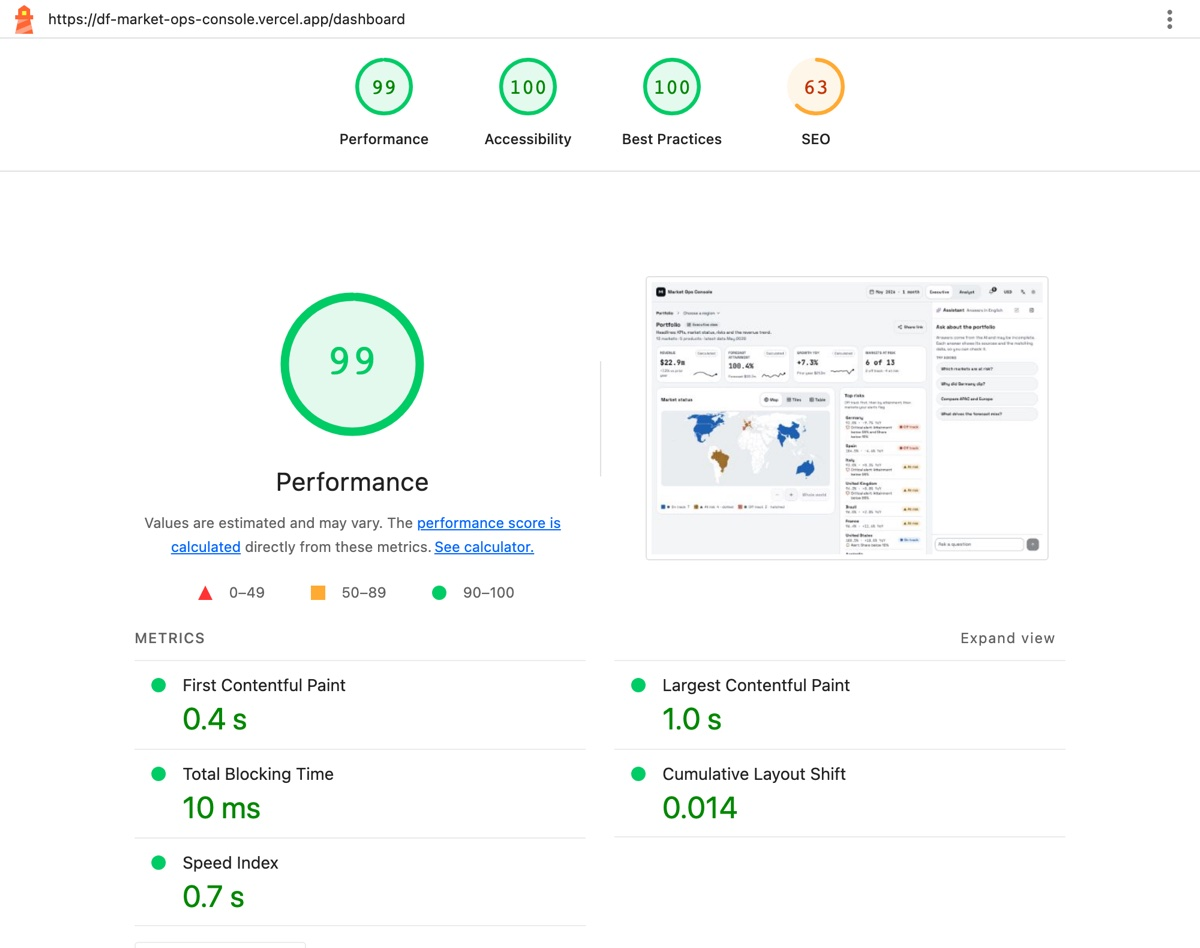
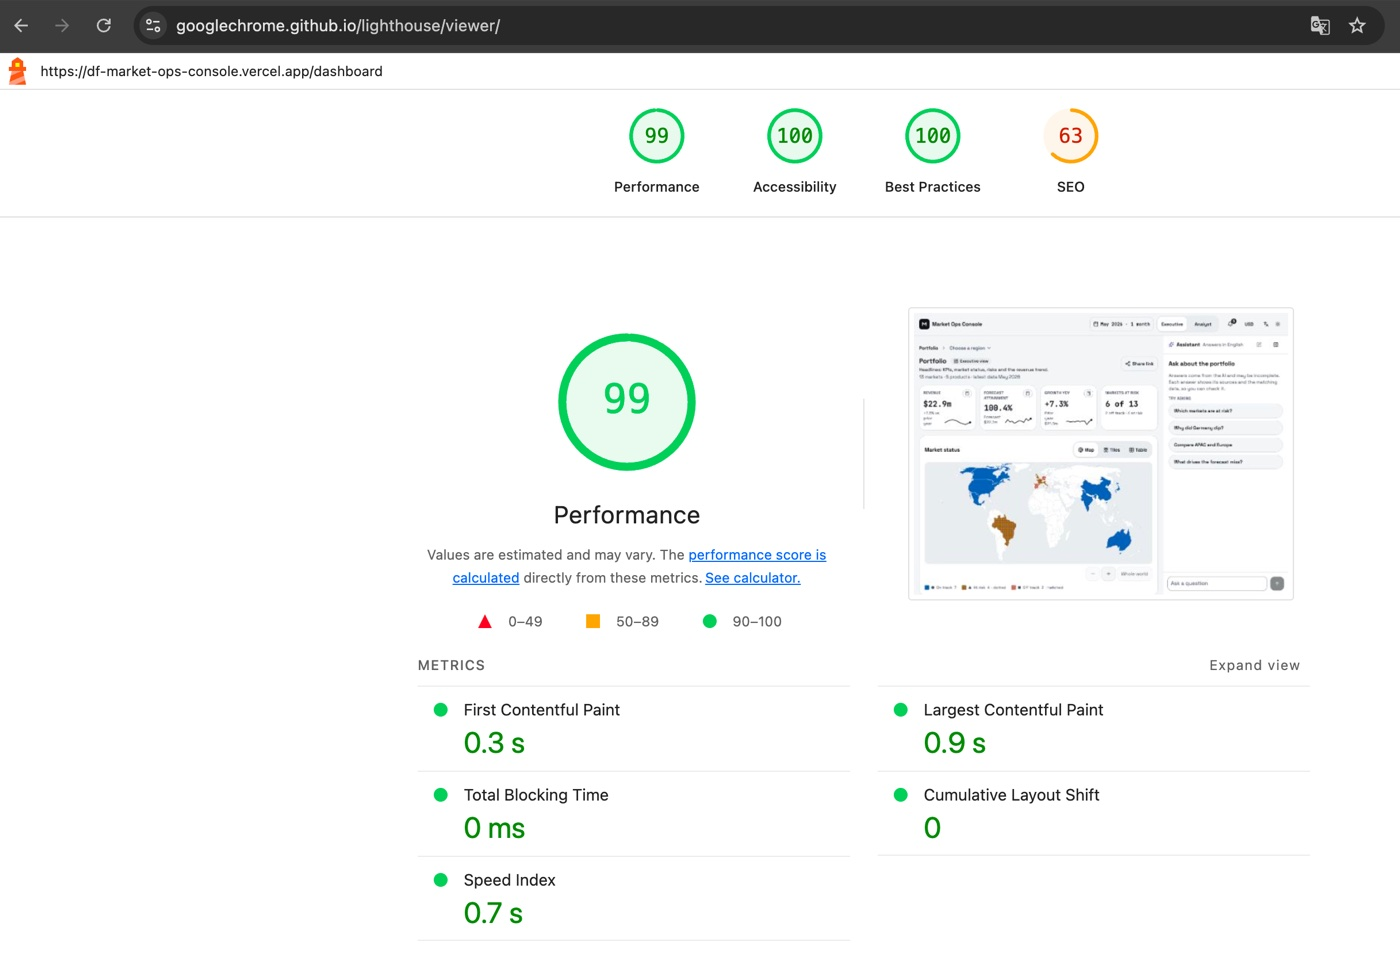
docs(1.0.1): Lighthouse reports from the author's run in Chrome

diff --git a/docs/requirements-map.md b/docs/requirements-map.md
@@ -45,15 +45,17 @@ Every requirement of the brief, where the code is, and a link or test that shows
 | Observability | Sentry: errors, traces, web vitals from the browser, logs; body-only tunnel `/monitoring`; environment from Vercel (`production`, `preview`), off locally unless asked (ADR 0019) | `e2e/sentry.spec.ts` |
 | CI/CD, deployed | `.github/workflows/` (format, lint, types, unit, E2E on pull requests); Vercel | https://df-market-ops-console.vercel.app |
 
-## Measured (2026-11-07, production 1.0.0, the median of three runs)
+## Measured (2026-11-07, production 1.0.0)
 
-Lighthouse 12.8.2, https://df-market-ops-console.vercel.app/dashboard, Chrome headless; mobile = Lighthouse's default throttling (slow 4G, 4× CPU).
+Lighthouse on https://df-market-ops-console.vercel.app/dashboard; mobile = Lighthouse's default throttling (slow 4G, 4× CPU). Two runs: in Chrome (the screenshots in the README), and from the command line (Lighthouse 12.8.2, Chrome headless, the median of three). Scores move a few points between runs and machines.
 
-| | Performance | Accessibility | Best practices | SEO | LCP | FCP | TBT | CLS | JS transferred |
+| Run | Performance | Accessibility | Best practices | SEO | LCP | FCP | TBT | CLS | JS transferred |
 |---|---|---|---|---|---|---|---|---|---|
-| Desktop | 99 | 100 | 100 | 63 | 1.0 s | 0.4 s | 10 ms | 0.014 | 700 KB, 28 files |
-| Mobile | 75 | 100 | 100 | 63 | 5.1 s | 1.1 s | 270 ms | 0 | 627 KB, 27 files |
+| Desktop, Chrome | 99 | 100 | 100 | 63 | 0.9 s | 0.3 s | 0 ms | 0 | |
+| Mobile, Chrome | 81 | 100 | 100 | 63 | 4.7 s | 1.1 s | 150 ms | 0 | |
+| Desktop, CLI | 99 | 100 | 100 | 63 | 1.0 s | 0.4 s | 10 ms | 0.014 | 700 KB, 28 files |
+| Mobile, CLI | 75 | 100 | 100 | 63 | 5.1 s | 1.1 s | 270 ms | 0 | 627 KB, 27 files |
 
 - SEO 63 is on purpose: `robots.txt` disallows everything and pages are `noindex` (a demo, ADR 0018); every other SEO check passes.
-- Mobile LCP: the largest element is the line under the title, which is drawn once the URL is read on the client (the static page shows a skeleton in its place, so a shared link never flashes the default view, ADR 0010). 88 % of the 5.1 s is render delay on a 4× slower CPU: JavaScript parse and hydration. What would bring it down is in `docs/plans/backlog.md`.
+- Mobile LCP: the largest element is the line under the title, which is drawn once the URL is read on the client (the static page shows a skeleton in its place, so a shared link never flashes the default view, ADR 0010). Most of it (88 % in the CLI run) is render delay on a 4× slower CPU: JavaScript parse and hydration. What would bring it down is in `docs/plans/backlog.md`.
 - All JS chunks of the build: 34 files, 980 KB gzip, of which the largest (250 KB) is ExcelJS, loaded only when Excel export is clicked.

diff --git a/README.md b/README.md
@@ -155,18 +155,18 @@ Every choice, with what was rejected: [ADR 0002](docs/decisions/0002-stack.md).
 
 ## Productionising it
 
-**Performance.** Pages are pre-rendered per language and served from Vercel's CDN. Heavy parts load only when needed: the map (~71 KB gz), the charts, and ExcelJS (~250 KB gz, only when Export is clicked). **Streaming without jank.** The chat's state lives in the assistant panel, so tokens re-render only the answer being written, never the dashboard. The list follows the answer only while the reader is at the bottom; if they scrolled up, a "New content" button appears instead of the page jumping. "What the data shows" is worked out once, when the answer ends. Lighthouse on production (1.0.0, the median of three runs, 7 November 2026):
+**Performance.** Pages are pre-rendered per language and served from Vercel's CDN. Heavy parts load only when needed: the map (~71 KB gz), the charts, and ExcelJS (~250 KB gz, only when Export is clicked). **Streaming without jank.** The chat's state lives in the assistant panel, so tokens re-render only the answer being written, never the dashboard. The list follows the answer only while the reader is at the bottom; if they scrolled up, a "New content" button appears instead of the page jumping. "What the data shows" is worked out once, when the answer ends. Lighthouse on production (1.0.0, run in Chrome, 7 November 2026):
 
 | | Performance | Accessibility | Best practices | LCP | TBT | CLS |
 |---|---|---|---|---|---|---|
-| Desktop | 99 | 100 | 100 | 1.0 s | 10 ms | 0.01 |
-| Mobile (slow 4G, 4× CPU) | 75 | 100 | 100 | 5.1 s | 270 ms | 0 |
+| Desktop | 99 | 100 | 100 | 0.9 s | 0 ms | 0 |
+| Mobile (slow 4G, 4× CPU) | 81 | 100 | 100 | 4.7 s | 150 ms | 0 |
 
 Mobile LCP is the weak spot: most of it is JavaScript parsing on a slow CPU. What would fix it is in the [backlog](docs/plans/backlog.md). SEO (63) is left out on purpose: the console is an internal tool, so `robots.txt` and `noindex` keep it out of search, and that is the only SEO check that fails.
 
 | Desktop | Mobile |
 |---|---|
-| ![Lighthouse, desktop: Performance 99, Accessibility 100, Best practices 100, SEO 63; LCP 1.0 s, TBT 10 ms, CLS 0.014](docs/screenshots/lighthouse-desktop.jpg) | ![Lighthouse, mobile: Performance 75, Accessibility 100, Best practices 100, SEO 63; LCP 5.1 s, TBT 270 ms, CLS 0](docs/screenshots/lighthouse-mobile.jpg) |
+| ![Lighthouse, desktop: Performance 99, Accessibility 100, Best practices 100, SEO 63; LCP 0.9 s, TBT 0 ms, CLS 0](docs/screenshots/lighthouse-desktop.jpg) | ![Lighthouse, mobile: Performance 81, Accessibility 100, Best practices 100, SEO 63; LCP 4.7 s, TBT 150 ms, CLS 0](docs/screenshots/lighthouse-mobile.jpg) |
 
 ### Observability
 

diff --git a/docs/plans/backlog.md b/docs/plans/backlog.md
@@ -6,7 +6,7 @@ What is known and not done, after 1.0. Each item says what it is, where it lives
 
 ### Performance
 
-- **Mobile LCP 5.1 s in Lighthouse (Performance 75; desktop 99).** The LCP element is the line under the title. It depends on the URL, so it renders only after hydration; the static HTML shows a skeleton there. 88 % of the time is render delay on a 4× slower CPU. Fix: render the default view's text in the static HTML and replace it only when the URL differs; split the dashboard's client JS further (the main chunk boots in ~1.2 s on 4× CPU). Numbers: `docs/requirements-map.md`.
+- **Mobile LCP 4.7 s in Lighthouse (Performance 81; desktop 99).** The LCP element is the line under the title. It depends on the URL, so it renders only after hydration; the static HTML shows a skeleton there. 88 % of the time is render delay on a 4× slower CPU. Fix: render the default view's text in the static HTML and replace it only when the URL differs; split the dashboard's client JS further (the main chunk boots in ~1.2 s on 4× CPU). Numbers: `docs/requirements-map.md`.
 - **A stored "Tiles" view shifts the layout once on load.** Before hydration the market card shows a map-shaped skeleton. The mode already avoids this with a before-paint script (ADR 0015); the stored view can do the same, since `localStorage` is readable in the head script.
 
 ### Accessibility

diff --git a/CHANGELOG.md b/CHANGELOG.md
@@ -5,7 +5,7 @@ Format: [Keep a Changelog](https://keepachangelog.com/en/1.1.0/). Versioning: [S
 ## [1.0.1] - 2026-11-08
 
 ### Changed
-- Lighthouse measured again on production 1.0.0, the median of three runs: desktop 99, mobile 75 (was 68 on 0.15.0). The README shows both reports as screenshots and says why SEO is 63. The same numbers in `docs/requirements-map.md` and the backlog.
+- Lighthouse measured again on production 1.0.0, in Chrome: desktop 99, mobile 81 (was 68 on 0.15.0). The README shows both reports as screenshots and says why SEO is 63. The same numbers in `docs/requirements-map.md` and the backlog.
 - The agent skills are no longer copied into the repo: `docs/agent-skills.md` lists each with a link to its source and what it was used for. The lint and Prettier exceptions for `.claude/skills/` are gone with the folder.
 - The backlog is rewritten for a reader: what is next, the trade-offs kept on purpose and why, and what is being watched; internal notes and closed items removed.
 - README, Accessibility: says plainly that no real screen reader has been run yet, and what was checked instead (axe in every E2E run against WCAG 2.1 AA, Google's Lighthouse accessibility audit, the keyboard by hand).
